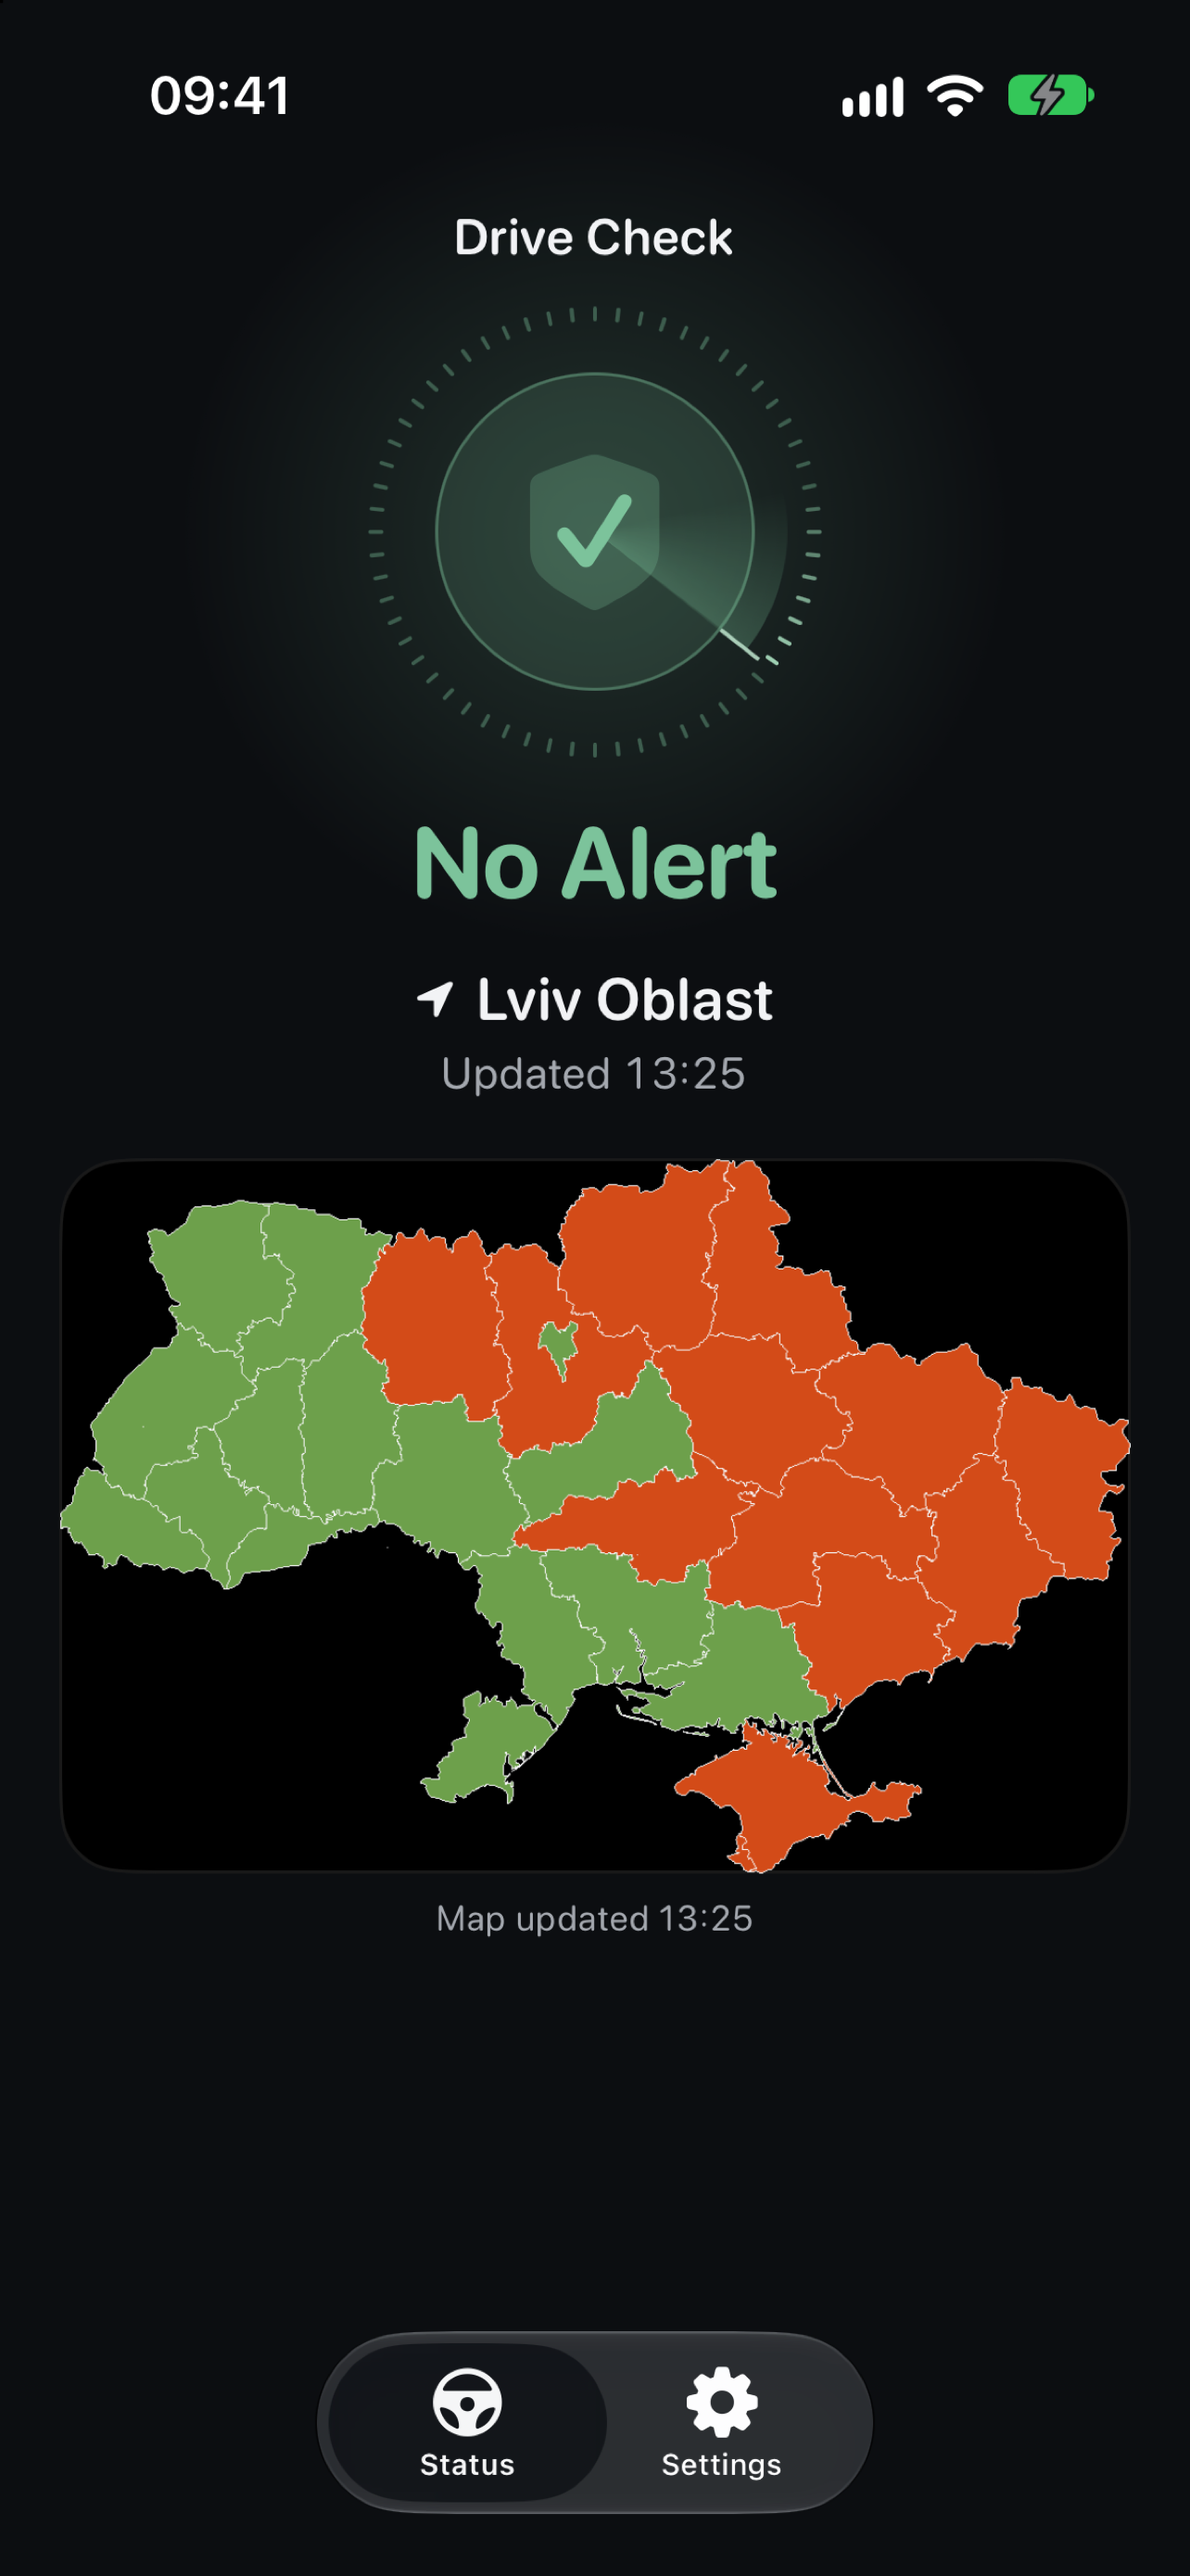
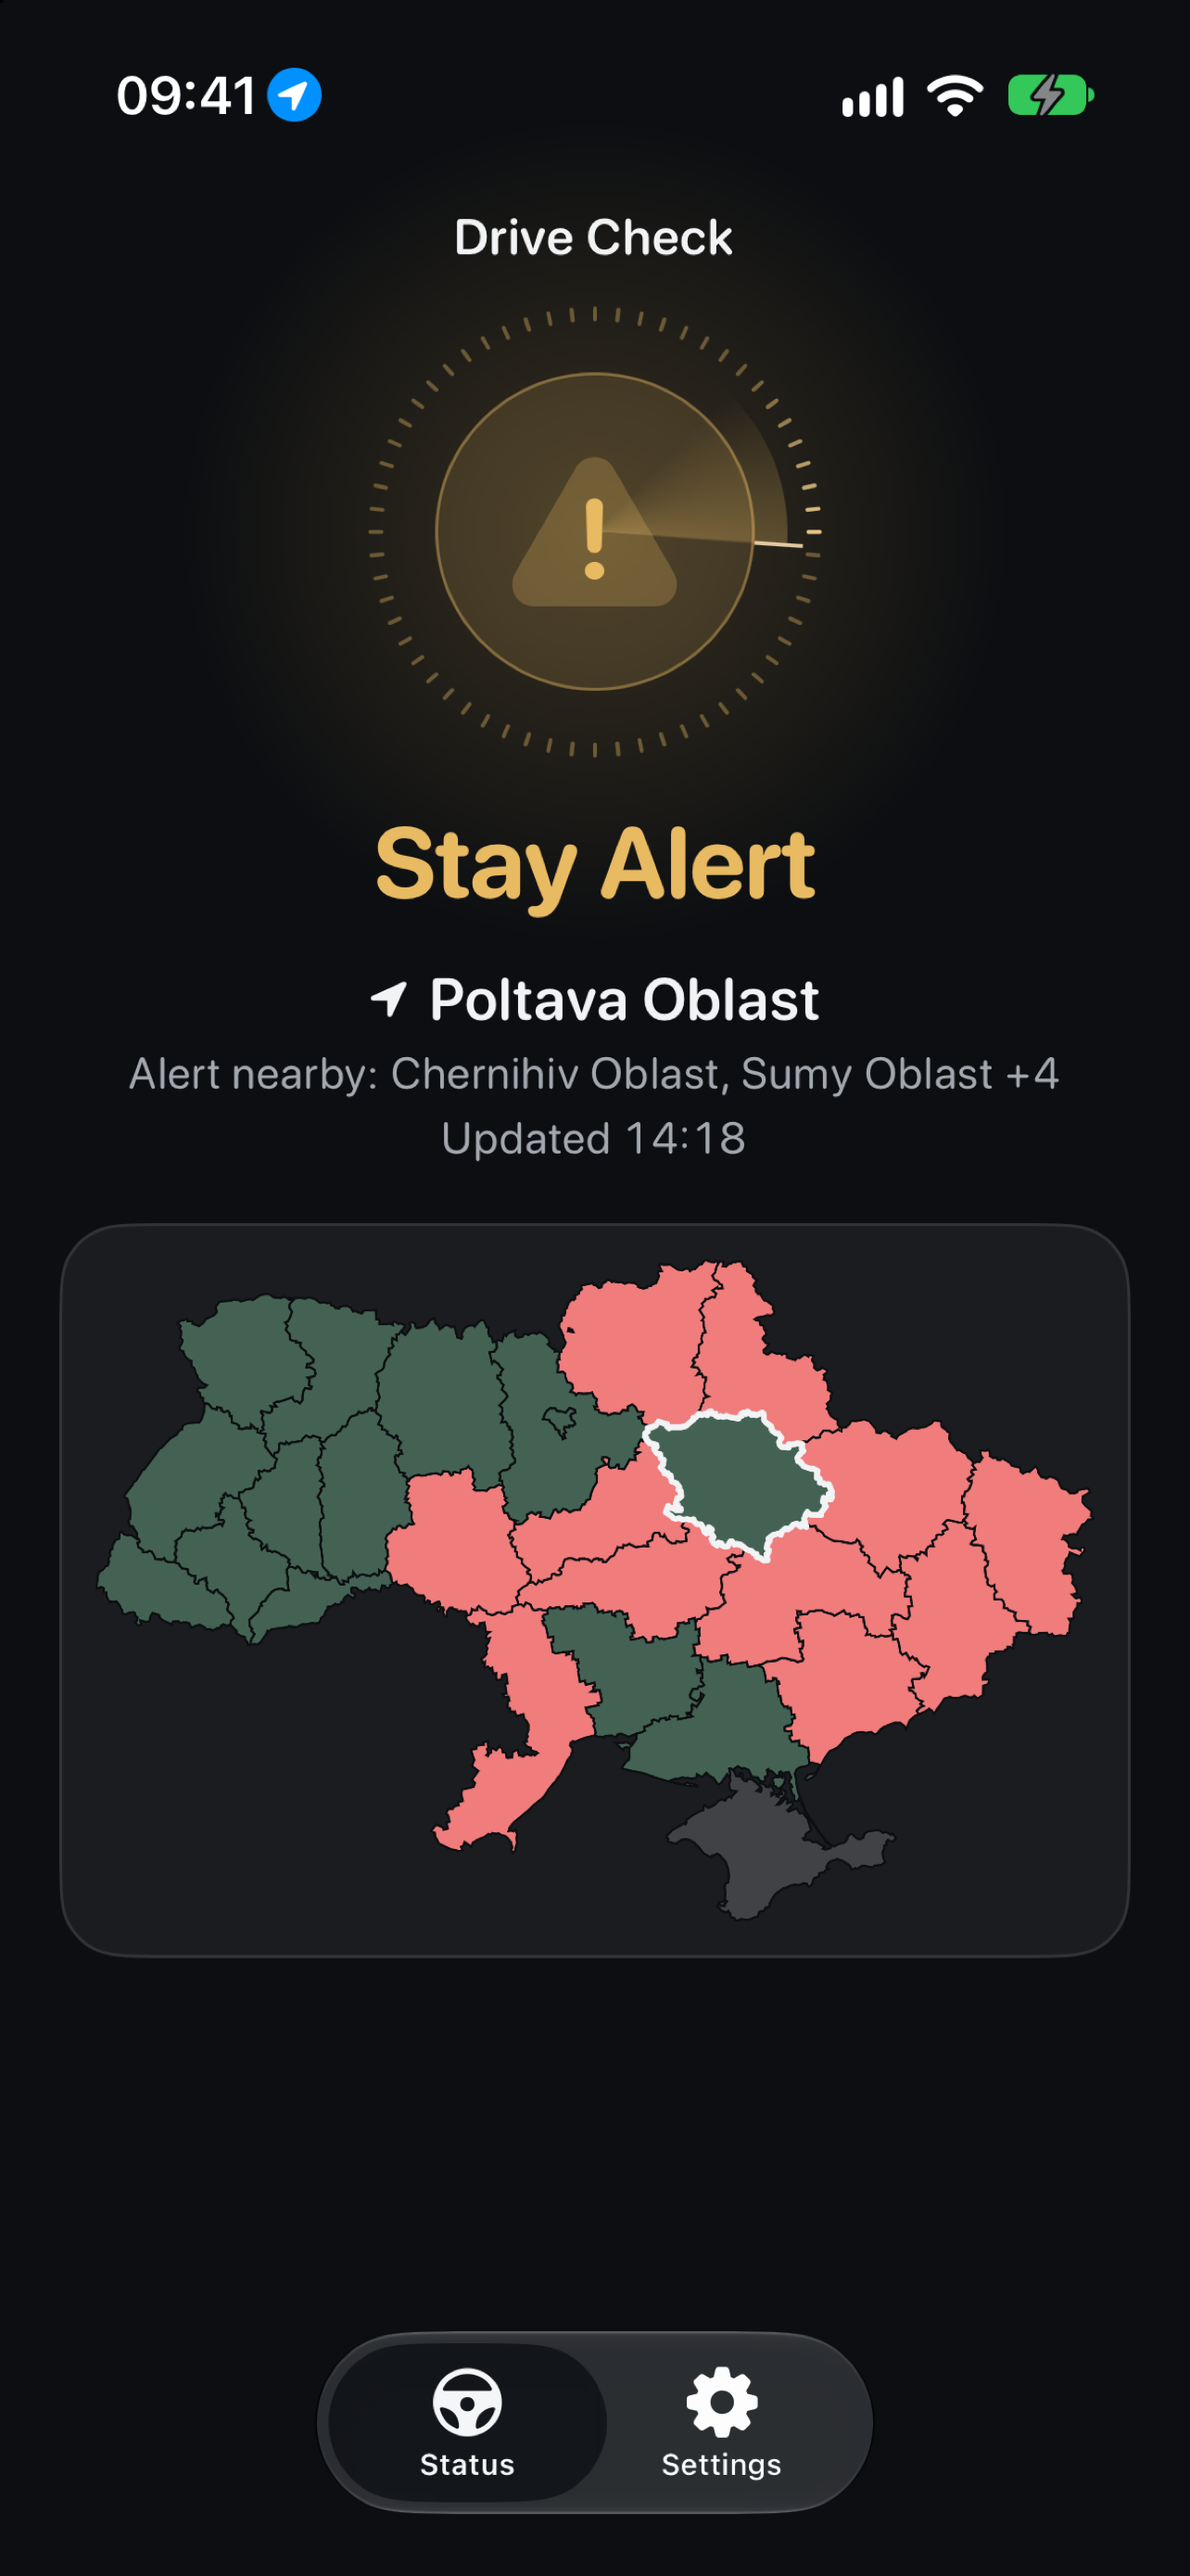
docs(release): recapture the 3.4.0 screenshots with the drawn map
Screens 02-05 show the map the app draws, from live data; the review's last stale comments and the
round 2 What to Test line are fixed with them.

Validation: sdd-run gate -- ios-verify --base d439bfc: PASS, 580 passed; ios-verify lint ok; the
four screens checked by eye for the region, the reason line and the map.

diff --git a/RegionalCheck/Status/StatusController.swift b/RegionalCheck/Status/StatusController.swift
@@ -93,7 +93,9 @@ final class StatusController {
         region
     }
 
-    /// See `RegionStatusSource.awaitStatusSettled()`; bounded by `statusSettledTimeout`.
+    /// Suspends until the refresh in flight settles (success or failure), or returns at once when
+    /// none is in flight and a refresh was attempted or a snapshot exists, so a caller never races
+    /// the status fetch that starts at the same moment. Bounded by `statusSettledTimeout`.
     func awaitStatusSettled() async {
         let alreadySettled = !isLoading && (hasAttemptedRefresh || lastSnapshot != nil)
         guard !alreadySettled else { return }

diff --git a/RegionalCheckTests/ThemeRedesignTests.swift b/RegionalCheckTests/ThemeRedesignTests.swift
@@ -2,7 +2,7 @@ import Foundation
 @testable import RegionalCheck
 import Testing
 
-/// RD-2: status accent mapping, palette selection, and the Reduce Transparency glass fallback.
+/// RD-2: status accent mapping and palette selection.
 /// Pure logic only — no snapshot coverage here.
 struct ThemeRedesignTests {
 

diff --git a/release/screenshots/README.md b/release/screenshots/README.md
@@ -7,15 +7,23 @@ the same English set.
 
 1. `asc/01-onboarding.png` — first launch: the welcome sheet, "Continue".
 2. `asc/02-status-no-alert.png` — Status, Lviv Oblast with no alert: the radar around the
-   shield, no reason line (no neighbour under alert), the inline alert map and its "Map updated" time.
-3. `asc/03-status-stay-alert.png` — Status, Kyiv in yellow "Stay Alert": quiet, with Kyiv Oblast
-   and its ring under alert, and the reason line "Alert nearby: Kyiv Oblast, Chernihiv Oblast +2".
+   shield, no reason line (no neighbour under alert), and the map the app draws, Lviv Oblast outlined.
+3. `asc/03-status-stay-alert.png` — Status, Poltava Oblast in yellow "Stay Alert": quiet, with
+   most of its neighbours under alert, and the reason line "Alert nearby: Chernihiv Oblast, Sumy
+   Oblast +4".
 4. `asc/04-status-alert.png` — Status, Kharkiv Oblast under alert: the radar around the
-   siren and the reason line "Alert since 13:01".
+   siren and the reason line "Alert since 13:47".
 5. `asc/05-region-list.png` — the read-only region list opened from the map.
 6. `asc/06-details.png` — Settings: Live Activities, notifications, About.
 
 All six are 1284 x 2778 opaque portrait images.
+
+## Capture provenance (3.4.0, MAP-native)
+
+Screens 02–05 were recaptured on 2026-11-13 at 14:17–14:18 Kyiv time from the MAP-native Debug
+build, on the same simulator with live Ubilling data, the same way as below, with a longer wait
+after each location change so the region had updated before the shot. The map is the app's own
+drawing; the feed gained one region between 02 and 03. 01 and 06 are unchanged.
 
 ## Capture provenance (3.4.0, STATUS-reason)
 

diff --git a/specs/MAP-native/plan.md b/specs/MAP-native/plan.md
@@ -164,7 +164,7 @@ replaced by `Map card` (fixture snapshot) and `Map card no data`.
 - [x] T007 Test + implement: attribution string and Settings row.
 - [x] T008 Docs: REQ-PROVIDER-002 (+ lock), ADR 0015 amendment, MAP-sync/UI-simplify/STATUS-reason
   notes, core.md, CHANGELOG, 3.4 release notes and What to Test round 2.
-- [~] T009 Snapshots re-recorded; live run-sim screenshot; App Store screenshots 02–05 recaptured
+- [x] T009 Snapshots re-recorded; live run-sim screenshot; App Store screenshots 02–05 recaptured
   and replaced in ASC.
 
 ## Review lows
@@ -177,6 +177,10 @@ replaced by `Map card` (fixture snapshot) and `Map card no data`.
 - low (review round 1): red or mutant runs exist for `AlertMapFillTests` only, not for
   `UkraineOutlinesTests`, the AC-3 scenario or the AC-8 strings test.
 - Fixed in the repair round: `showsMap` removed, stale comments and docs updated (both lows).
+- low (review round 2): two glass-fill tests were deleted with the dead `RedesignGlass` (owner's
+  dead-code request; nothing in production called it); the licence and AC-11 tests have no red run.
+  Fixed after round 2: the `awaitStatusSettled` doc, the ThemeRedesignTests header and the round 2
+  What to Test line.
 
 ## Critic fixes folded in
 

diff --git a/docs/operations/releases/3.4.md b/docs/operations/releases/3.4.md
@@ -75,7 +75,7 @@ Not verified before this build: any of the above on a device.
 Check:
 - Under the status: "Alert nearby: <regions>" when your region is quiet and a neighbour is under alert; "Alert since <time>" during an alert in your region; nothing else when all is quiet around.
 - The "Nearby" and "Regions under alert N of 25" rows are gone; tapping the map opens the region list.
-- The map is drawn by the app: the same regions red as the status says, your region outlined, Crimea grey, no loading and no "Map updated" caption; Settings shows "Map Data: Kartographia", linking to the dataset and its licence.
+- The map is drawn by the app: the same regions red as the status says, your region outlined, Crimea grey, no loading and no "Map updated" caption; Settings shows "Map Data: Kartographia", linking to the dataset, and the About footer names the licence (CC BY 3.0 IGO).
 - A new alert while the green all-clear Live Activity is still on screen: the red one replaces it at once.
 - Round 1 items still hold: radar and symbols, Live Activity start and all-clear lines, StandBy.
 
